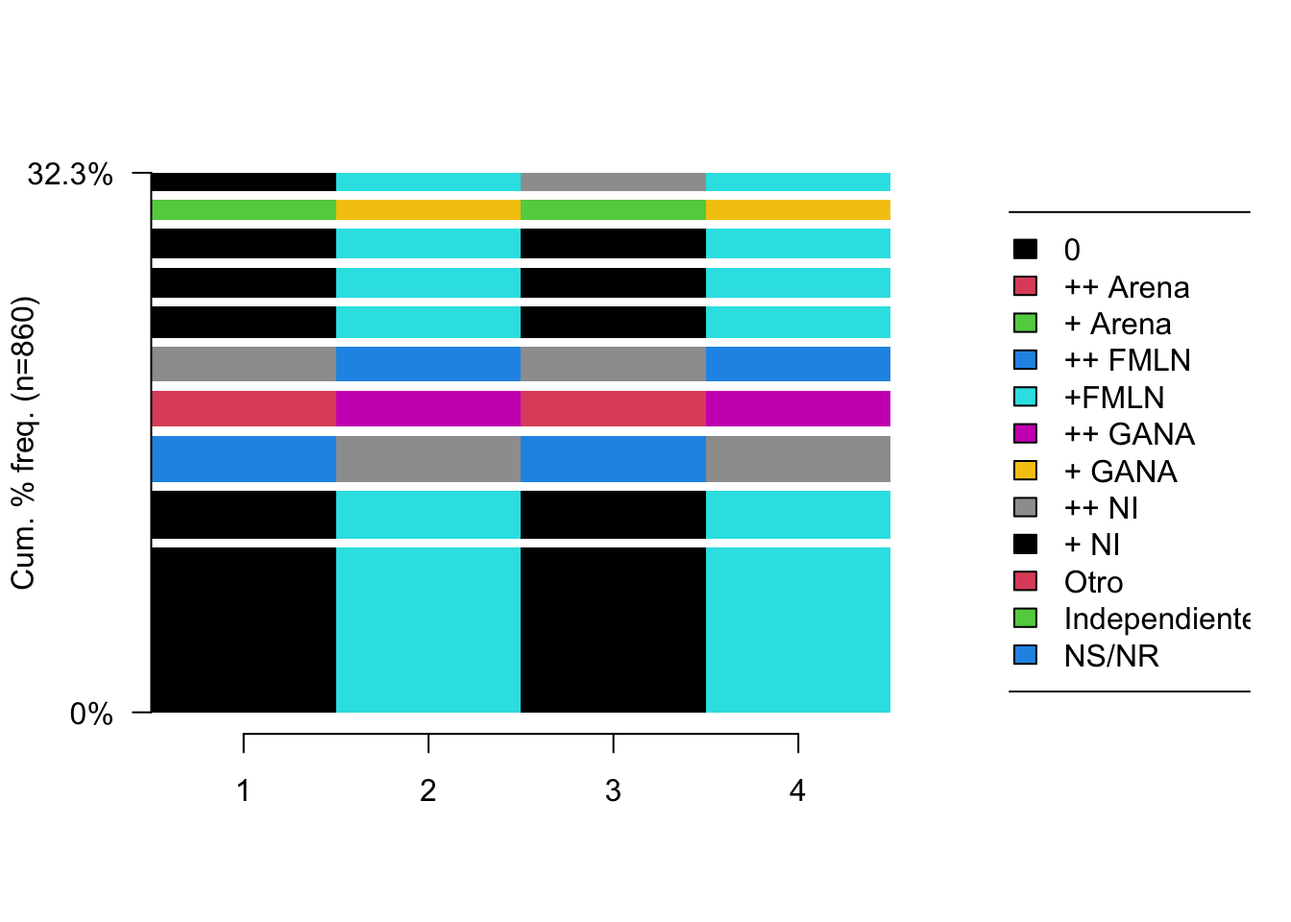
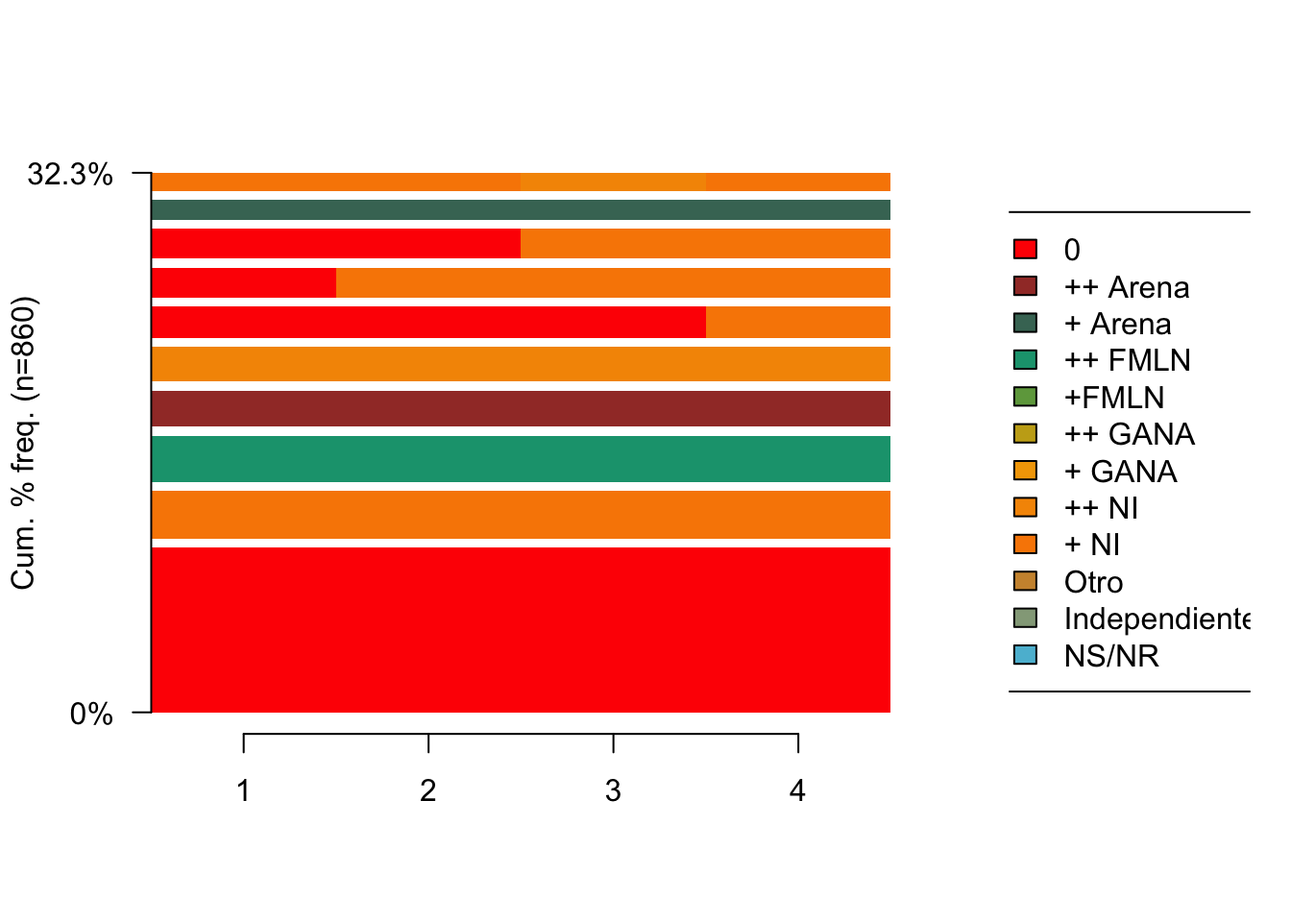
final_up

Changed region(s): [[0.0938, 0.1875, 0.6875, 0.7812], [0.7812, 0.25, 0.8125, 0.7188]]

diff --git a/docs/P10.html b/docs/P10.html
@@ -213,7 +213,7 @@ code span.wa { color: #60a0b0; font-weight: bold; font-style: italic; } /* Warni
 </li>
         <li class="sidebar-item">
   <div class="sidebar-item-container"> 
-  <a href="./P11.html" class="sidebar-item-text sidebar-link"><span class="chapter-number">11</span>&nbsp; <span class="chapter-title">p11</span></a>
+  <a href="./P11.html" class="sidebar-item-text sidebar-link"><span class="chapter-number">11</span>&nbsp; <span class="chapter-title">Fusionado de conjuntos de datos</span></a>
   </div>
 </li>
     </ul>
@@ -1114,26 +1114,22 @@ code span.wa { color: #60a0b0; font-weight: bold; font-style: italic; } /* Warni
 </div>
 <p>En id1, tenemos 12 valores, vamos a establecer una paleta de colores para cada valor.</p>
 <div class="cell">
-<div class="sourceCode cell-code" id="cb24"><pre class="sourceCode r code-with-copy"><code class="sourceCode r"><span id="cb24-1"><a href="#cb24-1" aria-hidden="true" tabindex="-1"></a>cols <span class="ot">&lt;-</span> <span class="fu">palette</span>(<span class="fu">c</span>(<span class="st">"gray80"</span>, <span class="st">"blue"</span>,<span class="st">" cornflowerblue"</span>,</span>
-<span id="cb24-2"><a href="#cb24-2" aria-hidden="true" tabindex="-1"></a>                  <span class="st">"red4"</span>, <span class="st">"tomato2"</span>, <span class="st">"darkorange"</span>, <span class="st">"gold"</span>,</span>
-<span id="cb24-3"><a href="#cb24-3" aria-hidden="true" tabindex="-1"></a>                  <span class="st">"darkcyan"</span>, <span class="st">"cyan1"</span>, </span>
-<span id="cb24-4"><a href="#cb24-4" aria-hidden="true" tabindex="-1"></a>                  <span class="st">"purple"</span>, <span class="st">"black"</span>, <span class="st">"gray50"</span>))</span>
-<span id="cb24-5"><a href="#cb24-5" aria-hidden="true" tabindex="-1"></a>cols</span></code><button title="Copy to Clipboard" class="code-copy-button"><i class="bi"></i></button></pre></div>
-<div class="cell-output cell-output-stdout">
-<pre><code>[1] "black"   "#DF536B" "#61D04F" "#2297E6" "#28E2E5" "#CD0BBC" "#F5C710"
-[8] "gray62" </code></pre>
+<div class="sourceCode cell-code" id="cb24"><pre class="sourceCode r code-with-copy"><code class="sourceCode r"><span id="cb24-1"><a href="#cb24-1" aria-hidden="true" tabindex="-1"></a>cols <span class="ot">&lt;-</span> <span class="fu">wes_palette</span>(<span class="at">n=</span><span class="dv">12</span>,<span class="at">name=</span><span class="st">"Darjeeling1"</span>,<span class="at">type=</span><span class="st">"continuous"</span> ) <span class="co"># un vector de colores creados con la paleta de Wes Anderson</span></span>
+<span id="cb24-2"><a href="#cb24-2" aria-hidden="true" tabindex="-1"></a>cols</span></code><button title="Copy to Clipboard" class="code-copy-button"><i class="bi"></i></button></pre></div>
+<div class="cell-output-display">
+<p><img src="P10_files/figure-html/unnamed-chunk-12-1.png" class="img-fluid" width="672"></p>
 </div>
 </div>
 <div class="cell">
-<div class="sourceCode cell-code" id="cb26"><pre class="sourceCode r code-with-copy"><code class="sourceCode r"><span id="cb26-1"><a href="#cb26-1" aria-hidden="true" tabindex="-1"></a>allu<span class="ot">&lt;-</span>easyalluvial<span class="sc">::</span><span class="fu">alluvial_long</span>(<span class="at">data=</span>panel_alluvial, <span class="co">#seleción del objeto de base de datos</span></span>
-<span id="cb26-2"><a href="#cb26-2" aria-hidden="true" tabindex="-1"></a>                    <span class="at">key =</span> onda, <span class="co"># Variable que identifica los estados</span></span>
-<span id="cb26-3"><a href="#cb26-3" aria-hidden="true" tabindex="-1"></a>                    <span class="at">value =</span> id1, <span class="co"># Variable con la que estableceremos los cambios</span></span>
-<span id="cb26-4"><a href="#cb26-4" aria-hidden="true" tabindex="-1"></a>                    <span class="at">id=</span>id, <span class="co"># identificador único de los individuos</span></span>
-<span id="cb26-5"><a href="#cb26-5" aria-hidden="true" tabindex="-1"></a>                    <span class="at">fill_by=</span><span class="st">'value'</span>, <span class="co"># Define los flujos en términos de la variable declarada en "value"</span></span>
-<span id="cb26-6"><a href="#cb26-6" aria-hidden="true" tabindex="-1"></a>                    <span class="at">col_vector_flow =</span> cols, <span class="co"># Color para los flujos</span></span>
-<span id="cb26-7"><a href="#cb26-7" aria-hidden="true" tabindex="-1"></a>                    <span class="at">col_vector_value =</span> cols) <span class="co"># Color para los recuadros</span></span>
-<span id="cb26-8"><a href="#cb26-8" aria-hidden="true" tabindex="-1"></a></span>
-<span id="cb26-9"><a href="#cb26-9" aria-hidden="true" tabindex="-1"></a>allu  <span class="co"># lo imprime</span></span></code><button title="Copy to Clipboard" class="code-copy-button"><i class="bi"></i></button></pre></div>
+<div class="sourceCode cell-code" id="cb25"><pre class="sourceCode r code-with-copy"><code class="sourceCode r"><span id="cb25-1"><a href="#cb25-1" aria-hidden="true" tabindex="-1"></a>allu<span class="ot">&lt;-</span>easyalluvial<span class="sc">::</span><span class="fu">alluvial_long</span>(<span class="at">data=</span>panel_alluvial, <span class="co">#seleción del objeto de base de datos</span></span>
+<span id="cb25-2"><a href="#cb25-2" aria-hidden="true" tabindex="-1"></a>                    <span class="at">key =</span> onda, <span class="co"># Variable que identifica los estados</span></span>
+<span id="cb25-3"><a href="#cb25-3" aria-hidden="true" tabindex="-1"></a>                    <span class="at">value =</span> id1, <span class="co"># Variable con la que estableceremos los cambios</span></span>
+<span id="cb25-4"><a href="#cb25-4" aria-hidden="true" tabindex="-1"></a>                    <span class="at">id=</span>id, <span class="co"># identificador único de los individuos</span></span>
+<span id="cb25-5"><a href="#cb25-5" aria-hidden="true" tabindex="-1"></a>                    <span class="at">fill_by=</span><span class="st">'value'</span>, <span class="co"># Define los flujos en términos de la variable declarada en "value"</span></span>
+<span id="cb25-6"><a href="#cb25-6" aria-hidden="true" tabindex="-1"></a>                    <span class="at">col_vector_flow =</span> cols, <span class="co"># Color para los flujos</span></span>
+<span id="cb25-7"><a href="#cb25-7" aria-hidden="true" tabindex="-1"></a>                    <span class="at">col_vector_value =</span> cols) <span class="co"># Color para los recuadros</span></span>
+<span id="cb25-8"><a href="#cb25-8" aria-hidden="true" tabindex="-1"></a></span>
+<span id="cb25-9"><a href="#cb25-9" aria-hidden="true" tabindex="-1"></a>allu  <span class="co"># lo imprime</span></span></code><button title="Copy to Clipboard" class="code-copy-button"><i class="bi"></i></button></pre></div>
 <div class="cell-output-display">
 <p><img src="P10_files/figure-html/unnamed-chunk-13-1.png" class="img-fluid" width="672"></p>
 </div>
@@ -1144,30 +1140,30 @@ code span.wa { color: #60a0b0; font-weight: bold; font-style: italic; } /* Warni
 <h2 data-number="10.4" class="anchored" data-anchor-id="paquete-traminer"><span class="header-section-number">10.4</span> Paquete TraMineR</h2>
 <p>Este paquete es fundamental para el análisis de secuencias. Genera tanto análisis descriptivos, formas de agrupamiento de nuestras secuencias y medidas que analizan específicamente cómo se comportan estas secuencias. En esta sección nos vamos a concentrar en el análisis de secuencias de estado, tal como se describe en (Gabadinho, Ritschard, Müller, &amp; Studer, 2011).</p>
 <div class="cell">
-<div class="sourceCode cell-code" id="cb27"><pre class="sourceCode r code-with-copy"><code class="sourceCode r"><span id="cb27-1"><a href="#cb27-1" aria-hidden="true" tabindex="-1"></a>panel_wide <span class="ot">&lt;-</span>panel_completo <span class="sc">%&gt;%</span> </span>
-<span id="cb27-2"><a href="#cb27-2" aria-hidden="true" tabindex="-1"></a>  <span class="fu">select</span>(correlativo, id, departamento, <span class="fu">starts_with</span>(<span class="st">"id1"</span>), onda) <span class="sc">%&gt;%</span> </span>
-<span id="cb27-3"><a href="#cb27-3" aria-hidden="true" tabindex="-1"></a>  <span class="fu">pivot_wider</span>(</span>
-<span id="cb27-4"><a href="#cb27-4" aria-hidden="true" tabindex="-1"></a>    <span class="at">names_prefix =</span> <span class="st">"id1_"</span>, </span>
-<span id="cb27-5"><a href="#cb27-5" aria-hidden="true" tabindex="-1"></a>    <span class="at">names_from =</span> onda,</span>
-<span id="cb27-6"><a href="#cb27-6" aria-hidden="true" tabindex="-1"></a>    <span class="at">values_from =</span> <span class="fu">c</span>(<span class="fu">starts_with</span>(<span class="st">"id1"</span>)))</span></code><button title="Copy to Clipboard" class="code-copy-button"><i class="bi"></i></button></pre></div>
+<div class="sourceCode cell-code" id="cb26"><pre class="sourceCode r code-with-copy"><code class="sourceCode r"><span id="cb26-1"><a href="#cb26-1" aria-hidden="true" tabindex="-1"></a>panel_wide <span class="ot">&lt;-</span>panel_completo <span class="sc">%&gt;%</span> </span>
+<span id="cb26-2"><a href="#cb26-2" aria-hidden="true" tabindex="-1"></a>  <span class="fu">select</span>(correlativo, id, departamento, <span class="fu">starts_with</span>(<span class="st">"id1"</span>), onda) <span class="sc">%&gt;%</span> </span>
+<span id="cb26-3"><a href="#cb26-3" aria-hidden="true" tabindex="-1"></a>  <span class="fu">pivot_wider</span>(</span>
+<span id="cb26-4"><a href="#cb26-4" aria-hidden="true" tabindex="-1"></a>    <span class="at">names_prefix =</span> <span class="st">"id1_"</span>, </span>
+<span id="cb26-5"><a href="#cb26-5" aria-hidden="true" tabindex="-1"></a>    <span class="at">names_from =</span> onda,</span>
+<span id="cb26-6"><a href="#cb26-6" aria-hidden="true" tabindex="-1"></a>    <span class="at">values_from =</span> <span class="fu">c</span>(<span class="fu">starts_with</span>(<span class="st">"id1"</span>)))</span></code><button title="Copy to Clipboard" class="code-copy-button"><i class="bi"></i></button></pre></div>
 </div>
 <p>Primero vamos a definir nuestra secuencia con el comando “seqdef()”. Usaremos nuestra base en formato ancho. Este formato ancho es compatible con el formato “STate-Sequence (STS)” del paquete, es decir, los estatos sucesivos representan una posición o columna en nuestra base de datos. La definición de la sequencia la guardaremos en un nuevo objeto.</p>
 <div class="cell">
-<div class="sourceCode cell-code" id="cb28"><pre class="sourceCode r code-with-copy"><code class="sourceCode r"><span id="cb28-1"><a href="#cb28-1" aria-hidden="true" tabindex="-1"></a>var_seq<span class="ot">&lt;-</span><span class="fu">c</span>(<span class="st">"id1_1"</span>, <span class="st">"id1_2"</span>, <span class="st">"id1_3"</span>, <span class="st">"id1_4"</span>) <span class="co"># variables con las que se ejecutarán las secuencias</span></span>
-<span id="cb28-2"><a href="#cb28-2" aria-hidden="true" tabindex="-1"></a></span>
-<span id="cb28-3"><a href="#cb28-3" aria-hidden="true" tabindex="-1"></a>id1.shortlab<span class="ot">&lt;-</span><span class="fu">c</span>(<span class="st">"0"</span>, <span class="st">"++ Arena"</span>, <span class="st">"+ Arena"</span>, <span class="st">"++ FMLN"</span>, <span class="st">"+FMLN"</span>, <span class="st">"++ GANA"</span>, <span class="st">"+ GANA"</span>,</span>
-<span id="cb28-4"><a href="#cb28-4" aria-hidden="true" tabindex="-1"></a>                <span class="st">"++ NI"</span>, <span class="st">"+ NI"</span>, <span class="st">"Otro"</span>, <span class="st">"Independiente"</span>, <span class="st">"NS/NR"</span>)</span></code><button title="Copy to Clipboard" class="code-copy-button"><i class="bi"></i></button></pre></div>
+<div class="sourceCode cell-code" id="cb27"><pre class="sourceCode r code-with-copy"><code class="sourceCode r"><span id="cb27-1"><a href="#cb27-1" aria-hidden="true" tabindex="-1"></a>var_seq<span class="ot">&lt;-</span><span class="fu">c</span>(<span class="st">"id1_1"</span>, <span class="st">"id1_2"</span>, <span class="st">"id1_3"</span>, <span class="st">"id1_4"</span>) <span class="co"># variables con las que se ejecutarán las secuencias</span></span>
+<span id="cb27-2"><a href="#cb27-2" aria-hidden="true" tabindex="-1"></a></span>
+<span id="cb27-3"><a href="#cb27-3" aria-hidden="true" tabindex="-1"></a>id1.shortlab<span class="ot">&lt;-</span><span class="fu">c</span>(<span class="st">"0"</span>, <span class="st">"++ Arena"</span>, <span class="st">"+ Arena"</span>, <span class="st">"++ FMLN"</span>, <span class="st">"+FMLN"</span>, <span class="st">"++ GANA"</span>, <span class="st">"+ GANA"</span>,</span>
+<span id="cb27-4"><a href="#cb27-4" aria-hidden="true" tabindex="-1"></a>                <span class="st">"++ NI"</span>, <span class="st">"+ NI"</span>, <span class="st">"Otro"</span>, <span class="st">"Independiente"</span>, <span class="st">"NS/NR"</span>)</span></code><button title="Copy to Clipboard" class="code-copy-button"><i class="bi"></i></button></pre></div>
 </div>
 </section>
 <section id="el-programa-central" class="level2" data-number="10.5">
 <h2 data-number="10.5" class="anchored" data-anchor-id="el-programa-central"><span class="header-section-number">10.5</span> El programa central</h2>
 <p>Siguiendo programa central descrito por Cornwell(2015), elaboraremos los primeros cuatro pasos. Pero primero necesitamos declarar la base para que el programa entienda que tenemos secuencias.</p>
 <div class="cell">
-<div class="sourceCode cell-code" id="cb29"><pre class="sourceCode r code-with-copy"><code class="sourceCode r"><span id="cb29-1"><a href="#cb29-1" aria-hidden="true" tabindex="-1"></a>id1.seq <span class="ot">&lt;-</span> panel_wide <span class="sc">%&gt;%</span> </span>
-<span id="cb29-2"><a href="#cb29-2" aria-hidden="true" tabindex="-1"></a>  <span class="fu">seqdef</span>(</span>
-<span id="cb29-3"><a href="#cb29-3" aria-hidden="true" tabindex="-1"></a>    <span class="at">var=</span>var_seq, <span class="co"># variables en análisis</span></span>
-<span id="cb29-4"><a href="#cb29-4" aria-hidden="true" tabindex="-1"></a>    <span class="at">states =</span> id1.shortlab, <span class="co">#estados, preferimos usar etiquetas cortas</span></span>
-<span id="cb29-5"><a href="#cb29-5" aria-hidden="true" tabindex="-1"></a>    <span class="at">xtstep =</span> <span class="dv">1</span>) <span class="co">#Número de marcas en el eje x para gráficas</span></span></code><button title="Copy to Clipboard" class="code-copy-button"><i class="bi"></i></button></pre></div>
+<div class="sourceCode cell-code" id="cb28"><pre class="sourceCode r code-with-copy"><code class="sourceCode r"><span id="cb28-1"><a href="#cb28-1" aria-hidden="true" tabindex="-1"></a>id1.seq <span class="ot">&lt;-</span> panel_wide <span class="sc">%&gt;%</span> </span>
+<span id="cb28-2"><a href="#cb28-2" aria-hidden="true" tabindex="-1"></a>  <span class="fu">seqdef</span>(</span>
+<span id="cb28-3"><a href="#cb28-3" aria-hidden="true" tabindex="-1"></a>    <span class="at">var=</span>var_seq, <span class="co"># variables en análisis</span></span>
+<span id="cb28-4"><a href="#cb28-4" aria-hidden="true" tabindex="-1"></a>    <span class="at">states =</span> id1.shortlab, <span class="co">#estados, preferimos usar etiquetas cortas</span></span>
+<span id="cb28-5"><a href="#cb28-5" aria-hidden="true" tabindex="-1"></a>    <span class="at">xtstep =</span> <span class="dv">1</span>) <span class="co">#Número de marcas en el eje x para gráficas</span></span></code><button title="Copy to Clipboard" class="code-copy-button"><i class="bi"></i></button></pre></div>
 <div class="cell-output cell-output-stderr">
 <pre><code> [&gt;] state coding:</code></pre>
 </div>
@@ -1221,9 +1217,9 @@ code span.wa { color: #60a0b0; font-weight: bold; font-style: italic; } /* Warni
 <h3 data-number="10.5.1" class="anchored" data-anchor-id="paso-1"><span class="header-section-number">10.5.1</span> Paso 1:</h3>
 <p>Descripción de las secuencias, mediante la tabulación y cálculo de indicadores para las características de cada secuencia;</p>
 <div class="cell">
-<div class="sourceCode cell-code" id="cb46"><pre class="sourceCode r code-with-copy"><code class="sourceCode r"><span id="cb46-1"><a href="#cb46-1" aria-hidden="true" tabindex="-1"></a><span class="do">## Tabulado y medidas ----------------------------------------------------------</span></span>
-<span id="cb46-2"><a href="#cb46-2" aria-hidden="true" tabindex="-1"></a><span class="fu">seqtab</span>(id1.seq, <span class="co">#objeto de secuencia</span></span>
-<span id="cb46-3"><a href="#cb46-3" aria-hidden="true" tabindex="-1"></a>       <span class="at">idxs=</span><span class="dv">1</span><span class="sc">:</span><span class="dv">10</span>) <span class="co"># establece el número de secuencias a tabular, si no se establece se tabulan todas</span></span></code><button title="Copy to Clipboard" class="code-copy-button"><i class="bi"></i></button></pre></div>
+<div class="sourceCode cell-code" id="cb45"><pre class="sourceCode r code-with-copy"><code class="sourceCode r"><span id="cb45-1"><a href="#cb45-1" aria-hidden="true" tabindex="-1"></a><span class="do">## Tabulado y medidas ----------------------------------------------------------</span></span>
+<span id="cb45-2"><a href="#cb45-2" aria-hidden="true" tabindex="-1"></a><span class="fu">seqtab</span>(id1.seq, <span class="co">#objeto de secuencia</span></span>
+<span id="cb45-3"><a href="#cb45-3" aria-hidden="true" tabindex="-1"></a>       <span class="at">idxs=</span><span class="dv">1</span><span class="sc">:</span><span class="dv">10</span>) <span class="co"># establece el número de secuencias a tabular, si no se establece se tabulan todas</span></span></code><button title="Copy to Clipboard" class="code-copy-button"><i class="bi"></i></button></pre></div>
 <div class="cell-output cell-output-stdout">
 <pre><code>                      Freq Percent
 0/4                    100    11.6
@@ -1237,7 +1233,7 @@ code span.wa { color: #60a0b0; font-weight: bold; font-style: italic; } /* Warni
 + Arena/4               12     1.4
 + NI/2-++ NI/1-+ NI/1   11     1.3</code></pre>
 </div>
-<div class="sourceCode cell-code" id="cb48"><pre class="sourceCode r code-with-copy"><code class="sourceCode r"><span id="cb48-1"><a href="#cb48-1" aria-hidden="true" tabindex="-1"></a><span class="fu">seqstatd</span>(id1.seq) </span></code><button title="Copy to Clipboard" class="code-copy-button"><i class="bi"></i></button></pre></div>
+<div class="sourceCode cell-code" id="cb47"><pre class="sourceCode r code-with-copy"><code class="sourceCode r"><span id="cb47-1"><a href="#cb47-1" aria-hidden="true" tabindex="-1"></a><span class="fu">seqstatd</span>(id1.seq) </span></code><button title="Copy to Clipboard" class="code-copy-button"><i class="bi"></i></button></pre></div>
 <div class="cell-output cell-output-stdout">
 <pre><code>                          [State frequencies]
                id1_1  id1_2  id1_3  id1_4
@@ -1262,29 +1258,29 @@ N               860   860   860   860
               id1_1 id1_2 id1_3 id1_4
 H              0.77   0.8  0.73  0.72</code></pre>
 </div>
-<div class="sourceCode cell-code" id="cb50"><pre class="sourceCode r code-with-copy"><code class="sourceCode r"><span id="cb50-1"><a href="#cb50-1" aria-hidden="true" tabindex="-1"></a><span class="co">#Esta es una medida de entropía para cada uno de los estado</span></span></code><button title="Copy to Clipboard" class="code-copy-button"><i class="bi"></i></button></pre></div>
+<div class="sourceCode cell-code" id="cb49"><pre class="sourceCode r code-with-copy"><code class="sourceCode r"><span id="cb49-1"><a href="#cb49-1" aria-hidden="true" tabindex="-1"></a><span class="co">#Esta es una medida de entropía para cada uno de los estado</span></span></code><button title="Copy to Clipboard" class="code-copy-button"><i class="bi"></i></button></pre></div>
 </div>
 </section>
 <section id="paso-2." class="level3" data-number="10.5.2">
 <h3 data-number="10.5.2" class="anchored" data-anchor-id="paso-2."><span class="header-section-number">10.5.2</span> Paso 2.</h3>
 <p>Visualización, a partir de los gráficos. En este caso presentamos gráficos de frecuencias y de índice, <em>segfplot y seqIplot</em>, respectivamente.</p>
 <div class="cell">
-<div class="sourceCode cell-code" id="cb51"><pre class="sourceCode r code-with-copy"><code class="sourceCode r"><span id="cb51-1"><a href="#cb51-1" aria-hidden="true" tabindex="-1"></a><span class="co"># Gráfico de frecuencias</span></span>
-<span id="cb51-2"><a href="#cb51-2" aria-hidden="true" tabindex="-1"></a><span class="fu">seqfplot</span>(<span class="at">seqdata=</span>id1.seq, <span class="co"># objeto de la definición de secuencias</span></span>
-<span id="cb51-3"><a href="#cb51-3" aria-hidden="true" tabindex="-1"></a>         <span class="at">with.legend =</span> <span class="st">"right"</span>, <span class="co"># posición de la leyenda</span></span>
-<span id="cb51-4"><a href="#cb51-4" aria-hidden="true" tabindex="-1"></a>         <span class="at">border =</span> <span class="cn">NA</span>, <span class="co"># opciones de bordes</span></span>
-<span id="cb51-5"><a href="#cb51-5" aria-hidden="true" tabindex="-1"></a>         <span class="at">cpal=</span>cols, <span class="co">#colores de nuestro vector</span></span>
-<span id="cb51-6"><a href="#cb51-6" aria-hidden="true" tabindex="-1"></a>         <span class="at">xtlab=</span><span class="dv">1</span><span class="sc">:</span><span class="dv">4</span>) <span class="co"># Para etiquetar el eje x con el número de entrevistas</span></span></code><button title="Copy to Clipboard" class="code-copy-button"><i class="bi"></i></button></pre></div>
+<div class="sourceCode cell-code" id="cb50"><pre class="sourceCode r code-with-copy"><code class="sourceCode r"><span id="cb50-1"><a href="#cb50-1" aria-hidden="true" tabindex="-1"></a><span class="co"># Gráfico de frecuencias</span></span>
+<span id="cb50-2"><a href="#cb50-2" aria-hidden="true" tabindex="-1"></a><span class="fu">seqfplot</span>(<span class="at">seqdata=</span>id1.seq, <span class="co"># objeto de la definición de secuencias</span></span>
+<span id="cb50-3"><a href="#cb50-3" aria-hidden="true" tabindex="-1"></a>         <span class="at">with.legend =</span> <span class="st">"right"</span>, <span class="co"># posición de la leyenda</span></span>
+<span id="cb50-4"><a href="#cb50-4" aria-hidden="true" tabindex="-1"></a>         <span class="at">border =</span> <span class="cn">NA</span>, <span class="co"># opciones de bordes</span></span>
+<span id="cb50-5"><a href="#cb50-5" aria-hidden="true" tabindex="-1"></a>         <span class="at">cpal=</span>cols, <span class="co">#colores de nuestro vector</span></span>
+<span id="cb50-6"><a href="#cb50-6" aria-hidden="true" tabindex="-1"></a>         <span class="at">xtlab=</span><span class="dv">1</span><span class="sc">:</span><span class="dv">4</span>) <span class="co"># Para etiquetar el eje x con el número de entrevistas</span></span></code><button title="Copy to Clipboard" class="code-copy-button"><i class="bi"></i></button></pre></div>
 <div class="cell-output-display">
 <p><img src="P10_files/figure-html/unnamed-chunk-18-1.png" class="img-fluid" width="672"></p>
 </div>
-<div class="sourceCode cell-code" id="cb52"><pre class="sourceCode r code-with-copy"><code class="sourceCode r"><span id="cb52-1"><a href="#cb52-1" aria-hidden="true" tabindex="-1"></a><span class="co"># Gráfico de índice</span></span>
-<span id="cb52-2"><a href="#cb52-2" aria-hidden="true" tabindex="-1"></a><span class="fu">seqIplot</span>(<span class="at">seqdata=</span>id1.seq, <span class="co"># objeto de la definición de secuencias</span></span>
-<span id="cb52-3"><a href="#cb52-3" aria-hidden="true" tabindex="-1"></a>         <span class="at">with.legend =</span> <span class="st">"right"</span>, <span class="co"># posición de la leyenda</span></span>
-<span id="cb52-4"><a href="#cb52-4" aria-hidden="true" tabindex="-1"></a>         <span class="at">border =</span> <span class="cn">NA</span>, <span class="co"># opciones de bordes</span></span>
-<span id="cb52-5"><a href="#cb52-5" aria-hidden="true" tabindex="-1"></a>         <span class="at">cpal=</span>cols, <span class="co">#colores de nuestro vector</span></span>
-<span id="cb52-6"><a href="#cb52-6" aria-hidden="true" tabindex="-1"></a>         <span class="at">sortv=</span>id1.seq<span class="sc">$</span>id1_1,<span class="co"># ordenadas según la condición inicial</span></span>
-<span id="cb52-7"><a href="#cb52-7" aria-hidden="true" tabindex="-1"></a>         <span class="at">xtlab=</span><span class="dv">1</span><span class="sc">:</span><span class="dv">4</span>) <span class="co"># Para etiquetar el eje x con el número de entrevistas</span></span></code><button title="Copy to Clipboard" class="code-copy-button"><i class="bi"></i></button></pre></div>
+<div class="sourceCode cell-code" id="cb51"><pre class="sourceCode r code-with-copy"><code class="sourceCode r"><span id="cb51-1"><a href="#cb51-1" aria-hidden="true" tabindex="-1"></a><span class="co"># Gráfico de índice</span></span>
+<span id="cb51-2"><a href="#cb51-2" aria-hidden="true" tabindex="-1"></a><span class="fu">seqIplot</span>(<span class="at">seqdata=</span>id1.seq, <span class="co"># objeto de la definición de secuencias</span></span>
+<span id="cb51-3"><a href="#cb51-3" aria-hidden="true" tabindex="-1"></a>         <span class="at">with.legend =</span> <span class="st">"right"</span>, <span class="co"># posición de la leyenda</span></span>
+<span id="cb51-4"><a href="#cb51-4" aria-hidden="true" tabindex="-1"></a>         <span class="at">border =</span> <span class="cn">NA</span>, <span class="co"># opciones de bordes</span></span>
+<span id="cb51-5"><a href="#cb51-5" aria-hidden="true" tabindex="-1"></a>         <span class="at">cpal=</span>cols, <span class="co">#colores de nuestro vector</span></span>
+<span id="cb51-6"><a href="#cb51-6" aria-hidden="true" tabindex="-1"></a>         <span class="at">sortv=</span>id1.seq<span class="sc">$</span>id1_1,<span class="co"># ordenadas según la condición inicial</span></span>
+<span id="cb51-7"><a href="#cb51-7" aria-hidden="true" tabindex="-1"></a>         <span class="at">xtlab=</span><span class="dv">1</span><span class="sc">:</span><span class="dv">4</span>) <span class="co"># Para etiquetar el eje x con el número de entrevistas</span></span></code><button title="Copy to Clipboard" class="code-copy-button"><i class="bi"></i></button></pre></div>
 <div class="cell-output-display">
 <p><img src="P10_files/figure-html/unnamed-chunk-18-2.png" class="img-fluid" width="672"></p>
 </div>
@@ -1294,10 +1290,10 @@ H              0.77   0.8  0.73  0.72</code></pre>
 <h3 data-number="10.5.3" class="anchored" data-anchor-id="paso-3"><span class="header-section-number">10.5.3</span> Paso 3:</h3>
 <p>Comparación de las secuencias entre sí, utilizando las medidas de distancia obtenidas a través de una correspondencia óptima (OM);</p>
 <div class="cell">
-<div class="sourceCode cell-code" id="cb53"><pre class="sourceCode r code-with-copy"><code class="sourceCode r"><span id="cb53-1"><a href="#cb53-1" aria-hidden="true" tabindex="-1"></a>dist.om1 <span class="ot">&lt;-</span> <span class="fu">seqdist</span>(id1.seq, <span class="co"># objeto con la secuencia declarada</span></span>
-<span id="cb53-2"><a href="#cb53-2" aria-hidden="true" tabindex="-1"></a>                    <span class="at">method =</span> <span class="st">"OM"</span>, <span class="co"># Cómo calculamos la disimilaridad</span></span>
-<span id="cb53-3"><a href="#cb53-3" aria-hidden="true" tabindex="-1"></a>                    <span class="at">indel =</span> <span class="dv">1</span>, <span class="co"># costos de in-serción y eliminación (del-ete)</span></span>
-<span id="cb53-4"><a href="#cb53-4" aria-hidden="true" tabindex="-1"></a>                    <span class="at">sm =</span> <span class="st">"TRATE"</span>) <span class="co"># La mprobabilidades de transición de los datos son los costos</span></span></code><button title="Copy to Clipboard" class="code-copy-button"><i class="bi"></i></button></pre></div>
+<div class="sourceCode cell-code" id="cb52"><pre class="sourceCode r code-with-copy"><code class="sourceCode r"><span id="cb52-1"><a href="#cb52-1" aria-hidden="true" tabindex="-1"></a>dist.om1 <span class="ot">&lt;-</span> <span class="fu">seqdist</span>(id1.seq, <span class="co"># objeto con la secuencia declarada</span></span>
+<span id="cb52-2"><a href="#cb52-2" aria-hidden="true" tabindex="-1"></a>                    <span class="at">method =</span> <span class="st">"OM"</span>, <span class="co"># Cómo calculamos la disimilaridad</span></span>
+<span id="cb52-3"><a href="#cb52-3" aria-hidden="true" tabindex="-1"></a>                    <span class="at">indel =</span> <span class="dv">1</span>, <span class="co"># costos de in-serción y eliminación (del-ete)</span></span>
+<span id="cb52-4"><a href="#cb52-4" aria-hidden="true" tabindex="-1"></a>                    <span class="at">sm =</span> <span class="st">"TRATE"</span>) <span class="co"># La mprobabilidades de transición de los datos son los costos</span></span></code><button title="Copy to Clipboard" class="code-copy-button"><i class="bi"></i></button></pre></div>
 <div class="cell-output cell-output-stderr">
 <pre><code> [&gt;] 860 sequences with 12 distinct states</code></pre>
 </div>
@@ -1320,7 +1316,7 @@ H              0.77   0.8  0.73  0.72</code></pre>
 <pre><code> [&gt;] computing distances using the OM metric</code></pre>
 </div>
 <div class="cell-output cell-output-stderr">
-<pre><code> [&gt;] elapsed time: 0.086 secs</code></pre>
+<pre><code> [&gt;] elapsed time: 0.093 secs</code></pre>
 </div>
 </div>
 </section>
@@ -1328,28 +1324,28 @@ H              0.77   0.8  0.73  0.72</code></pre>
 <h3 data-number="10.5.4" class="anchored" data-anchor-id="paso-4"><span class="header-section-number">10.5.4</span> Paso 4:</h3>
 <p>Agrupación de las secuencias similares, en este caso, utilizaremos el clúster jerárquico con el método de mínima varianza de Ward</p>
 <div class="cell">
-<div class="sourceCode cell-code" id="cb62"><pre class="sourceCode r code-with-copy"><code class="sourceCode r"><span id="cb62-1"><a href="#cb62-1" aria-hidden="true" tabindex="-1"></a><span class="fu">set.seed</span>(<span class="dv">123</span>) <span class="co"># semilla para replicar y que nos dé a todes igual</span></span>
-<span id="cb62-2"><a href="#cb62-2" aria-hidden="true" tabindex="-1"></a>clusterward1 <span class="ot">&lt;-</span> <span class="fu">agnes</span>(dist.om1,<span class="co"># llamamos a nuestro objeto de distancia </span></span>
-<span id="cb62-3"><a href="#cb62-3" aria-hidden="true" tabindex="-1"></a>                      <span class="at">diss =</span> <span class="cn">TRUE</span>, <span class="co"># para que entienda que le dimos un objeto de disimiliradid</span></span>
-<span id="cb62-4"><a href="#cb62-4" aria-hidden="true" tabindex="-1"></a>                      <span class="at">method =</span> <span class="st">"ward"</span>) <span class="co">#l método de varianza mínima de Ward.</span></span>
-<span id="cb62-5"><a href="#cb62-5" aria-hidden="true" tabindex="-1"></a></span>
-<span id="cb62-6"><a href="#cb62-6" aria-hidden="true" tabindex="-1"></a><span class="fu">plot</span>(clusterward1, <span class="at">which.plot =</span> <span class="dv">2</span>) <span class="co">#grafica para decidir</span></span></code><button title="Copy to Clipboard" class="code-copy-button"><i class="bi"></i></button></pre></div>
+<div class="sourceCode cell-code" id="cb61"><pre class="sourceCode r code-with-copy"><code class="sourceCode r"><span id="cb61-1"><a href="#cb61-1" aria-hidden="true" tabindex="-1"></a><span class="fu">set.seed</span>(<span class="dv">123</span>) <span class="co"># semilla para replicar y que nos dé a todes igual</span></span>
+<span id="cb61-2"><a href="#cb61-2" aria-hidden="true" tabindex="-1"></a>clusterward1 <span class="ot">&lt;-</span> <span class="fu">agnes</span>(dist.om1,<span class="co"># llamamos a nuestro objeto de distancia </span></span>
+<span id="cb61-3"><a href="#cb61-3" aria-hidden="true" tabindex="-1"></a>                      <span class="at">diss =</span> <span class="cn">TRUE</span>, <span class="co"># para que entienda que le dimos un objeto de disimiliradid</span></span>
+<span id="cb61-4"><a href="#cb61-4" aria-hidden="true" tabindex="-1"></a>                      <span class="at">method =</span> <span class="st">"ward"</span>) <span class="co">#l método de varianza mínima de Ward.</span></span>
+<span id="cb61-5"><a href="#cb61-5" aria-hidden="true" tabindex="-1"></a></span>
+<span id="cb61-6"><a href="#cb61-6" aria-hidden="true" tabindex="-1"></a><span class="fu">plot</span>(clusterward1, <span class="at">which.plot =</span> <span class="dv">2</span>) <span class="co">#grafica para decidir</span></span></code><button title="Copy to Clipboard" class="code-copy-button"><i class="bi"></i></button></pre></div>
 <div class="cell-output-display">
 <p><img src="P10_files/figure-html/unnamed-chunk-20-1.png" class="img-fluid" width="672"></p>
 </div>
-<div class="sourceCode cell-code" id="cb63"><pre class="sourceCode r code-with-copy"><code class="sourceCode r"><span id="cb63-1"><a href="#cb63-1" aria-hidden="true" tabindex="-1"></a>cl1<span class="fl">.3</span> <span class="ot">&lt;-</span> <span class="fu">cutree</span>(clusterward1, <span class="at">k =</span> <span class="dv">3</span>) <span class="co">#corta los casos</span></span>
-<span id="cb63-2"><a href="#cb63-2" aria-hidden="true" tabindex="-1"></a></span>
-<span id="cb63-3"><a href="#cb63-3" aria-hidden="true" tabindex="-1"></a>cl1<span class="fl">.3</span>fac <span class="ot">&lt;-</span> <span class="fu">factor</span>(cl1<span class="fl">.3</span>, </span>
-<span id="cb63-4"><a href="#cb63-4" aria-hidden="true" tabindex="-1"></a>                   <span class="at">labels =</span> <span class="fu">paste</span>(<span class="st">"Tipología"</span>, <span class="dv">1</span><span class="sc">:</span><span class="dv">3</span>))</span>
-<span id="cb63-5"><a href="#cb63-5" aria-hidden="true" tabindex="-1"></a></span>
-<span id="cb63-6"><a href="#cb63-6" aria-hidden="true" tabindex="-1"></a></span>
-<span id="cb63-7"><a href="#cb63-7" aria-hidden="true" tabindex="-1"></a><span class="co"># ¿Cómo se ven  las secuencias por grupo?</span></span>
-<span id="cb63-8"><a href="#cb63-8" aria-hidden="true" tabindex="-1"></a></span>
-<span id="cb63-9"><a href="#cb63-9" aria-hidden="true" tabindex="-1"></a></span>
-<span id="cb63-10"><a href="#cb63-10" aria-hidden="true" tabindex="-1"></a><span class="fu">seqIplot</span>(id1.seq, <span class="co"># objeto con secuencias declaradas</span></span>
-<span id="cb63-11"><a href="#cb63-11" aria-hidden="true" tabindex="-1"></a>         <span class="at">group =</span> cl1<span class="fl">.3</span>fac, <span class="co">#identifica los cluster calculados</span></span>
-<span id="cb63-12"><a href="#cb63-12" aria-hidden="true" tabindex="-1"></a>         <span class="at">sortv =</span> <span class="st">"from.start"</span>,<span class="co"># ordena según condición inicial</span></span>
-<span id="cb63-13"><a href="#cb63-13" aria-hidden="true" tabindex="-1"></a>         <span class="at">cpal=</span>cols)</span></code><button title="Copy to Clipboard" class="code-copy-button"><i class="bi"></i></button></pre></div>
+<div class="sourceCode cell-code" id="cb62"><pre class="sourceCode r code-with-copy"><code class="sourceCode r"><span id="cb62-1"><a href="#cb62-1" aria-hidden="true" tabindex="-1"></a>cl1<span class="fl">.3</span> <span class="ot">&lt;-</span> <span class="fu">cutree</span>(clusterward1, <span class="at">k =</span> <span class="dv">3</span>) <span class="co">#corta los casos</span></span>
+<span id="cb62-2"><a href="#cb62-2" aria-hidden="true" tabindex="-1"></a></span>
+<span id="cb62-3"><a href="#cb62-3" aria-hidden="true" tabindex="-1"></a>cl1<span class="fl">.3</span>fac <span class="ot">&lt;-</span> <span class="fu">factor</span>(cl1<span class="fl">.3</span>, </span>
+<span id="cb62-4"><a href="#cb62-4" aria-hidden="true" tabindex="-1"></a>                   <span class="at">labels =</span> <span class="fu">paste</span>(<span class="st">"Tipología"</span>, <span class="dv">1</span><span class="sc">:</span><span class="dv">3</span>))</span>
+<span id="cb62-5"><a href="#cb62-5" aria-hidden="true" tabindex="-1"></a></span>
+<span id="cb62-6"><a href="#cb62-6" aria-hidden="true" tabindex="-1"></a></span>
+<span id="cb62-7"><a href="#cb62-7" aria-hidden="true" tabindex="-1"></a><span class="co"># ¿Cómo se ven  las secuencias por grupo?</span></span>
+<span id="cb62-8"><a href="#cb62-8" aria-hidden="true" tabindex="-1"></a></span>
+<span id="cb62-9"><a href="#cb62-9" aria-hidden="true" tabindex="-1"></a></span>
+<span id="cb62-10"><a href="#cb62-10" aria-hidden="true" tabindex="-1"></a><span class="fu">seqIplot</span>(id1.seq, <span class="co"># objeto con secuencias declaradas</span></span>
+<span id="cb62-11"><a href="#cb62-11" aria-hidden="true" tabindex="-1"></a>         <span class="at">group =</span> cl1<span class="fl">.3</span>fac, <span class="co">#identifica los cluster calculados</span></span>
+<span id="cb62-12"><a href="#cb62-12" aria-hidden="true" tabindex="-1"></a>         <span class="at">sortv =</span> <span class="st">"from.start"</span>,<span class="co"># ordena según condición inicial</span></span>
+<span id="cb62-13"><a href="#cb62-13" aria-hidden="true" tabindex="-1"></a>         <span class="at">cpal=</span>cols)</span></code><button title="Copy to Clipboard" class="code-copy-button"><i class="bi"></i></button></pre></div>
 <div class="cell-output-display">
 <p><img src="P10_files/figure-html/unnamed-chunk-20-2.png" class="img-fluid" width="672"></p>
 </div>
@@ -1466,7 +1462,7 @@ window.document.addEventListener("DOMContentLoaded", function (event) {
   </div>
   <div class="nav-page nav-page-next">
       <a href="./P11.html" class="pagination-link">
-        <span class="nav-page-text"><span class="chapter-number">11</span>&nbsp; <span class="chapter-title">p11</span></span> <i class="bi bi-arrow-right-short"></i>
+        <span class="nav-page-text"><span class="chapter-number">11</span>&nbsp; <span class="chapter-title">Fusionado de conjuntos de datos</span></span> <i class="bi bi-arrow-right-short"></i>
       </a>
   </div>
 </nav>

diff --git a/docs/P11.html b/docs/P11.html
@@ -7,7 +7,7 @@
 <meta name="viewport" content="width=device-width, initial-scale=1.0, user-scalable=yes">
 
 
-<title>R para investigación social - 11&nbsp; p11</title>
+<title>R para investigación social - 11&nbsp; Fusionado de conjuntos de datos</title>
 <style>
 code{white-space: pre-wrap;}
 span.smallcaps{font-variant: small-caps;}
@@ -132,7 +132,7 @@ code span.wa { color: #60a0b0; font-weight: bold; font-style: italic; } /* Warni
   <header id="quarto-header" class="headroom fixed-top">
   <nav class="quarto-secondary-nav" data-bs-toggle="collapse" data-bs-target="#quarto-sidebar" aria-controls="quarto-sidebar" aria-expanded="false" aria-label="Toggle sidebar navigation" onclick="if (window.quartoToggleHeadroom) { window.quartoToggleHeadroom(); }">
     <div class="container-fluid d-flex justify-content-between">
-      <h1 class="quarto-secondary-nav-title"><span class="chapter-number">11</span>&nbsp; <span class="chapter-title">p11</span></h1>
+      <h1 class="quarto-secondary-nav-title"><span class="chapter-number">11</span>&nbsp; <span class="chapter-title">Fusionado de conjuntos de datos</span></h1>
       <button type="button" class="quarto-btn-toggle btn" aria-label="Show secondary navigation">
         <i class="bi bi-chevron-right"></i>
       </button>
@@ -212,7 +212,7 @@ code span.wa { color: #60a0b0; font-weight: bold; font-style: italic; } /* Warni
 </li>
         <li class="sidebar-item">
   <div class="sidebar-item-container"> 
-  <a href="./P11.html" class="sidebar-item-text sidebar-link active"><span class="chapter-number">11</span>&nbsp; <span class="chapter-title">p11</span></a>
+  <a href="./P11.html" class="sidebar-item-text sidebar-link active"><span class="chapter-number">11</span>&nbsp; <span class="chapter-title">Fusionado de conjuntos de datos</span></a>
   </div>
 </li>
     </ul>
@@ -243,7 +243,7 @@ code span.wa { color: #60a0b0; font-weight: bold; font-style: italic; } /* Warni
 
 <header id="title-block-header" class="quarto-title-block default">
 <div class="quarto-title">
-<h1 class="title d-none d-lg-block"><span class="chapter-number">11</span>&nbsp; <span class="chapter-title">p11</span></h1>
+<h1 class="title d-none d-lg-block"><span class="chapter-number">11</span>&nbsp; <span class="chapter-title">Fusionado de conjuntos de datos</span></h1>
 </div>
 
 
